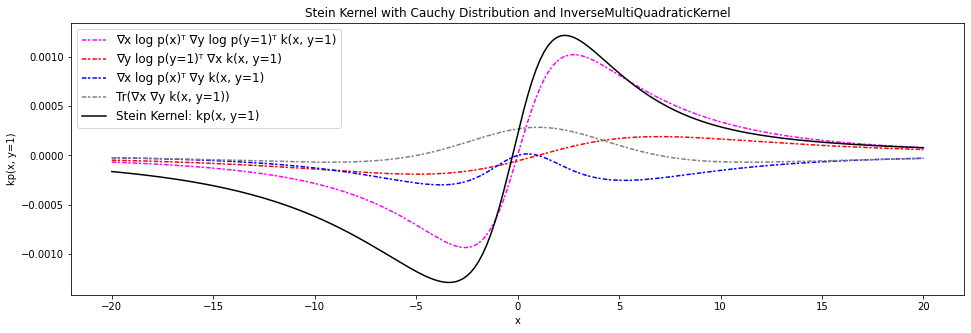
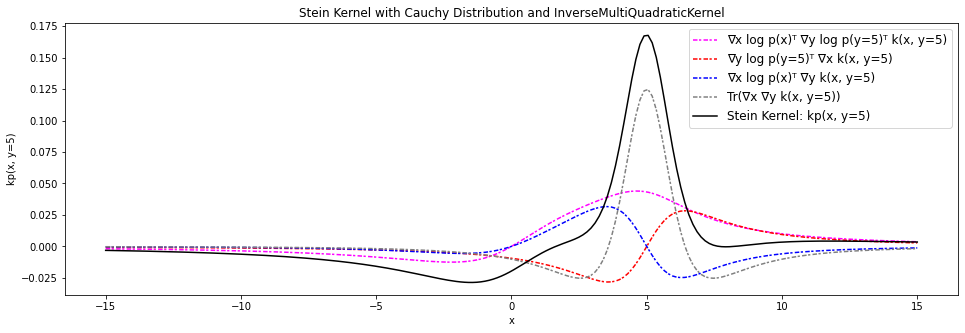
update

diff --git a/_site/blog-posts/the-kernel-stein-discrepancy.html b/_site/blog-posts/the-kernel-stein-discrepancy.html
@@ -181,13 +181,13 @@ In particular, I'll be introducing the Kernel Stein Discrepancy (KSD). As backgr
 
 <p>where \(x \in \mathbb{R}^d\).</p>
 
-<p>We can numerically verify the Stein identity by plotting the distribution of expectations of samples of \(k_{\mathbb{P}}(X, x)\). The below plot compares \(Y \sim \mathbb{P}\) and \(Y \sim \mathbb{Q}\), where \(\mathbb{Q}\) is a Laplace distribution. For \(\mathbb{P}\), the distribution centers around zero, while the distribution for \(\mathbb{Q}\) has a non-zero mean. Moreover, the effect of the law of large numbers shows how the histograms narrow as the sample size increases.</p>
+<p>We can numerically verify the Stein identity by plotting the distribution of expectations of samples of \(k_{\mathbb{P}}(X, x)\). The below plot compares \(X \sim \mathbb{P}\) and \(X \sim \mathbb{Q}\), where \(\mathbb{Q}\) is a Laplace distribution. For \(\mathbb{P}\), the distribution centers around zero, while the distribution for \(\mathbb{Q}\) has a non-zero mean. Moreover, the effect of the law of large numbers shows how the histograms narrow as the sample size increases.</p>
 
 <figure class="image" align="center">
   <img src="the-kernel-stein-discrepancy/stein_convergence.gif" width="60%" />
 </figure>
 
-<h2 id="the-kernel-stein-discrepancy-1">The Kernel Stein Discrepancy</h2>
+<h3 id="the-kernel-stein-discrepancy-1">The Kernel Stein Discrepancy</h3>
 
 <p>We have essentially arrived at the KSD formulation. Formally, it is defined as:</p>
 
@@ -200,7 +200,7 @@ In particular, I'll be introducing the Kernel Stein Discrepancy (KSD). As backgr
 <p>We derived the KSD from the MMD formulation, cancelling terms using the Stein identity. We can in some ways view the KSD is an instance of the MMD using a Stein kernel. If we computed the MMD with a Stein kernel, we can see its convergence to the KSD via the law of large numbers, \(\mathbb{E}_{X \sim \mathbb{P}}[k_{\mathbb{P}}(X, \tilde{X})] \rightarrow 0\) and \(\mathbb{E}_{X \sim \mathbb{P}, Y \sim \mathbb{Q}}[k_{\mathbb{P}}(X, Y)] \rightarrow 0\).</p>
 
 <figure class="image" align="center">
-  <img src="the-kernel-stein-discrepancy/ksd_vs_mmd_per_trial.png" width="100%" />
+  <img src="the-kernel-stein-discrepancy/ksd_vs_mmd.png" width="50%" />
   <figcaption> </figcaption>
 </figure>
 
@@ -210,7 +210,7 @@ In particular, I'll be introducing the Kernel Stein Discrepancy (KSD). As backgr
 
 <h4 id="laplace-distribution">Laplace Distribution</h4>
 
-<p>Let’s first plot the distribution and base kernel for our Stein kernel evaluated at \(k(x, 0)\):</p>
+<p>Let’s first plot the distribution and base kernel for our Stein kernel, evaluated at \(k(x, 0)\):</p>
 
 <figure class="image" align="center">
   <img src="the-kernel-stein-discrepancy/laplace_and_imq_kernel.png" width="80%" />
@@ -220,13 +220,13 @@ In particular, I'll be introducing the Kernel Stein Discrepancy (KSD). As backgr
 
 \[k_{\mathbb{P}}(x, y) = \nabla_y \log p(y)^T\nabla_x \log p(x)^T k(x, y) + \nabla_y \log p(y)^T\nabla_x k(x, y) + \nabla_x \log p(x)^T \nabla_y k(x, y) +  Tr(\nabla_x \nabla_y k(x,y))\]
 
-<p>Plotting each term in the Stein kernel:</p>
+<p>Each term in the Stein kernel is a product of a distribution component and kernel component. Plotting each component and their product to construct each term:</p>
 
 <figure class="image" align="center">
   <img src="the-kernel-stein-discrepancy/laplace_stein_kernel_decomposed.png" width="80%" />
 </figure>
 
-<p>Combining each term, we can visualise the Stein kernel:</p>
+<p>Combining the terms, we can visualise the Stein kernel:</p>
 
 <figure class="image" align="center">
   <img src="the-kernel-stein-discrepancy/laplace_stein_kernel.png" width="80%" />
@@ -234,7 +234,7 @@ In particular, I'll be introducing the Kernel Stein Discrepancy (KSD). As backgr
 
 <h4 id="cauchy-distribution">Cauchy Distribution</h4>
 
-<p>Let’s also visaulise the Stein kernel for a fat-tailed distribution, base kernel that is wider, and evaluating at \(k(x, y=1)\):</p>
+<p>Let’s also visualise the Stein kernel for a fat-tailed distribution, base kernel that is wider, and evaluating at \(k(x, y=5)\):</p>
 
 <figure class="image" align="center">
   <img src="the-kernel-stein-discrepancy/cauchy_and_imq_kernel.png" width="80%" />
@@ -266,6 +266,10 @@ In particular, I'll be introducing the Kernel Stein Discrepancy (KSD). As backgr
 <h1 id="limitations-of-the-ksd">Limitations of the KSD</h1>
 
 <p>multimodal</p>
+
+<figure class="image" align="center">
+  <img src="the-kernel-stein-discrepancy/base_kernel_param_vs_ksd.gif" width="100%" />
+</figure>
 
 <h2 id="appendix">Appendix</h2>
 <h3 id="mmd-derivation">MMD Derivation</h3>

diff --git a/blog-posts/the-kernel-stein-discrepancy.md b/blog-posts/the-kernel-stein-discrepancy.md
@@ -143,14 +143,14 @@ $$\mathbb{E}_{X \sim \mathbb{P}}[k_{\mathbb{P}}(x, X)] = 0 \Leftrightarrow X \si
 
 where $$x \in \mathbb{R}^d$$.
 
-We can numerically verify the Stein identity by plotting the distribution of expectations of samples of $$k_{\mathbb{P}}(X, x)$$. The below plot compares $$Y \sim \mathbb{P}$$ and $$Y \sim \mathbb{Q}$$, where $$\mathbb{Q}$$ is a Laplace distribution. For $$\mathbb{P}$$, the distribution centers around zero, while the distribution for $$\mathbb{Q}$$ has a non-zero mean. Moreover, the effect of the law of large numbers shows how the histograms narrow as the sample size increases. 
+We can numerically verify the Stein identity by plotting the distribution of expectations of samples of $$k_{\mathbb{P}}(X, x)$$. The below plot compares $$X \sim \mathbb{P}$$ and $$X \sim \mathbb{Q}$$, where $$\mathbb{Q}$$ is a Laplace distribution. For $$\mathbb{P}$$, the distribution centers around zero, while the distribution for $$\mathbb{Q}$$ has a non-zero mean. Moreover, the effect of the law of large numbers shows how the histograms narrow as the sample size increases. 
 
 <figure class="image" align="center">
   <img src="the-kernel-stein-discrepancy/stein_convergence.gif" width="60%">
 </figure>
 
 
-## The Kernel Stein Discrepancy
+### The Kernel Stein Discrepancy
 
 We have essentially arrived at the KSD formulation. Formally, it is defined as:
 
@@ -163,7 +163,7 @@ where $$k_{\mathbb{P}}$$ is the Stein kernel.
 We derived the KSD from the MMD formulation, cancelling terms using the Stein identity. We can in some ways view the KSD is an instance of the MMD using a Stein kernel. If we computed the MMD with a Stein kernel, we can see its convergence to the KSD via the law of large numbers, $$\mathbb{E}_{X \sim \mathbb{P}}[k_{\mathbb{P}}(X, \tilde{X})] \rightarrow 0$$ and $$\mathbb{E}_{X \sim \mathbb{P}, Y \sim \mathbb{Q}}[k_{\mathbb{P}}(X, Y)] \rightarrow 0$$.
 
 <figure class="image" align="center">
-  <img src="the-kernel-stein-discrepancy/ksd_vs_mmd_per_trial.png" width="100%">
+  <img src="the-kernel-stein-discrepancy/ksd_vs_mmd.png" width="50%">
   <figcaption> </figcaption>
 </figure>
 
@@ -173,7 +173,7 @@ Because of their complex formulation, it can be difficult to have an intuitive u
 
 #### Laplace Distribution
 
-Let's first plot the distribution and base kernel for our Stein kernel evaluated at $$k(x, 0)$$:
+Let's first plot the distribution and base kernel for our Stein kernel, evaluated at $$k(x, 0)$$:
 
 <figure class="image" align="center">
   <img src="the-kernel-stein-discrepancy/laplace_and_imq_kernel.png" width="80%">
@@ -183,14 +183,13 @@ Recall the Stein kernel:
 
 $$k_{\mathbb{P}}(x, y) = \nabla_y \log p(y)^T\nabla_x \log p(x)^T k(x, y) + \nabla_y \log p(y)^T\nabla_x k(x, y) + \nabla_x \log p(x)^T \nabla_y k(x, y) +  Tr(\nabla_x \nabla_y k(x,y))$$
 
-Plotting each term in the Stein kernel:
+Each term in the Stein kernel is a product of a distribution component and kernel component. Plotting each component and their product to construct each term:
 
 <figure class="image" align="center">
   <img src="the-kernel-stein-discrepancy/laplace_stein_kernel_decomposed.png" width="80%">
 </figure>
 
-Combining each term, we can visualise the Stein kernel:
-
+Combining the terms, we can visualise the Stein kernel:
 
 <figure class="image" align="center">
   <img src="the-kernel-stein-discrepancy/laplace_stein_kernel.png" width="80%">
@@ -198,7 +197,7 @@ Combining each term, we can visualise the Stein kernel:
 
 #### Cauchy Distribution
 
-Let's also visaulise the Stein kernel for a fat-tailed distribution, base kernel that is wider, and evaluating at $$k(x, y=1)$$:
+Let's also visualise the Stein kernel for a fat-tailed distribution, base kernel that is wider, and evaluating at $$k(x, y=5)$$:
 
 <figure class="image" align="center">
   <img src="the-kernel-stein-discrepancy/cauchy_and_imq_kernel.png" width="80%">
@@ -227,6 +226,10 @@ Let's also visaulise the Stein kernel for a fat-tailed distribution, base kernel
 # Limitations of the KSD
 
 multimodal
+
+<figure class="image" align="center">
+  <img src="the-kernel-stein-discrepancy/base_kernel_param_vs_ksd.gif" width="100%">
+</figure>
 
 ## Appendix 
 ### MMD Derivation
